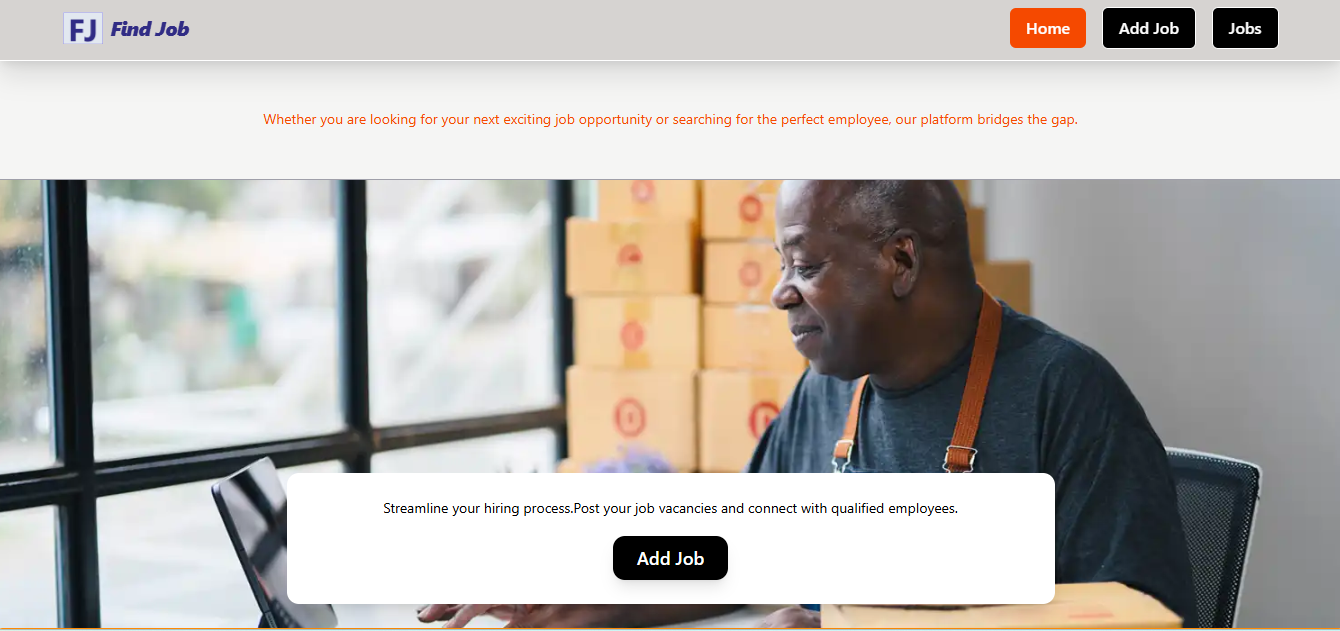
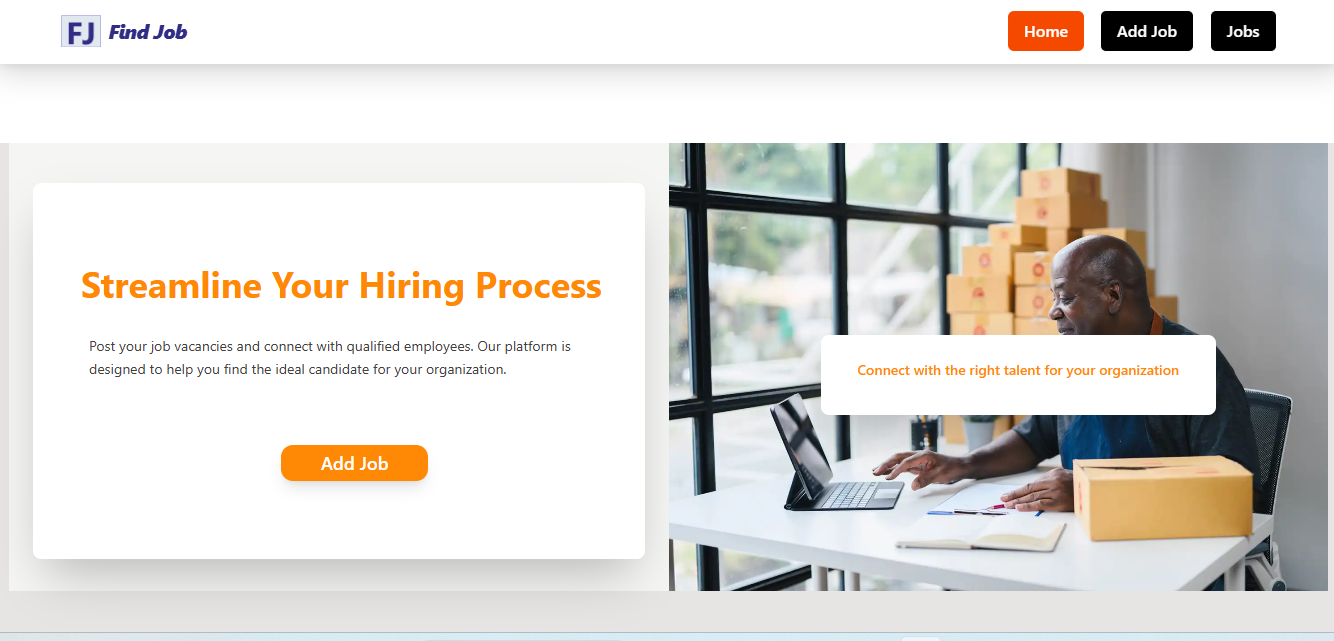
readme file updated with screenshot of new homepage ui

diff --git a/README.md b/README.md
@@ -19,11 +19,14 @@ Begin by cloning the project repository to your local machine and navigating int
 
 # Running the Application
 
-To run the application locally, you need to run both commands in different terminal
-* npm run server
+To run the application locally, you need to run the command below the terminal
 * npm run dev
  Now the application should be runing on http://localhost:5173/
 
 
 # Screenshot of various pages of the application
-![alt text](HomePage.png)![alt text](HomePage2.png)![alt text](<AddJob Page.png>)![alt text](JobsPage.png)![alt text](JobDetailPage.png)
+![alt text](HomePage.png)
+![alt text](<homePage 2.png>)
+![alt text](<AddJob Page.png>)
+![alt text](JobsPage.png)
+![alt text](JobDetailPage.png)
